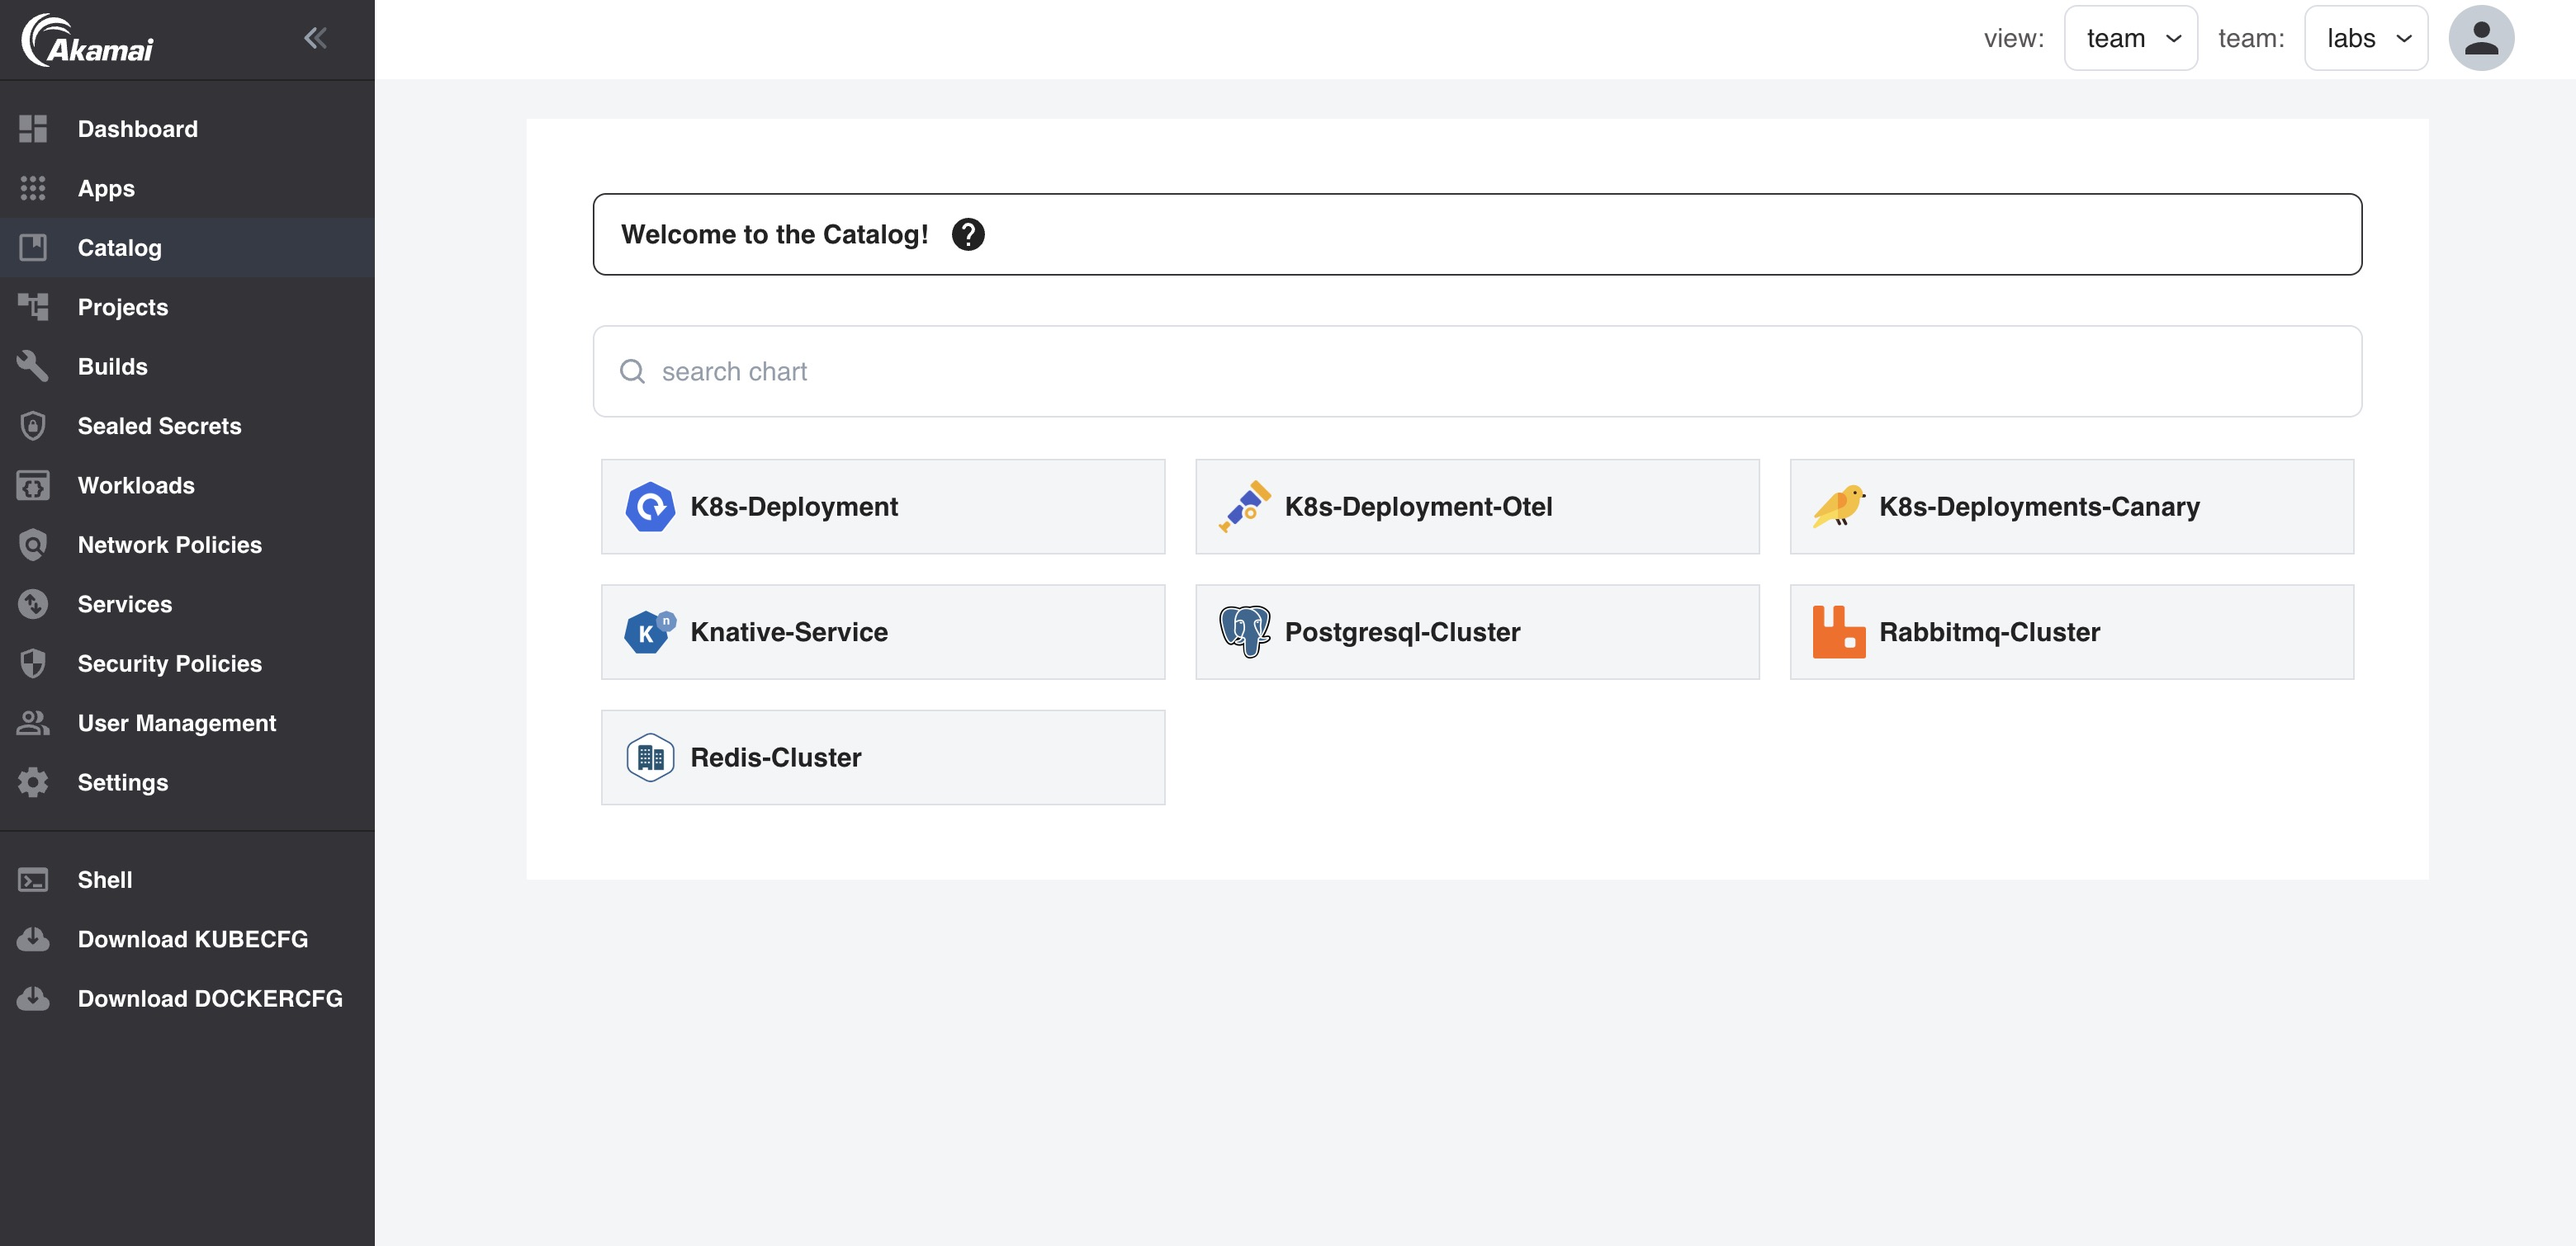
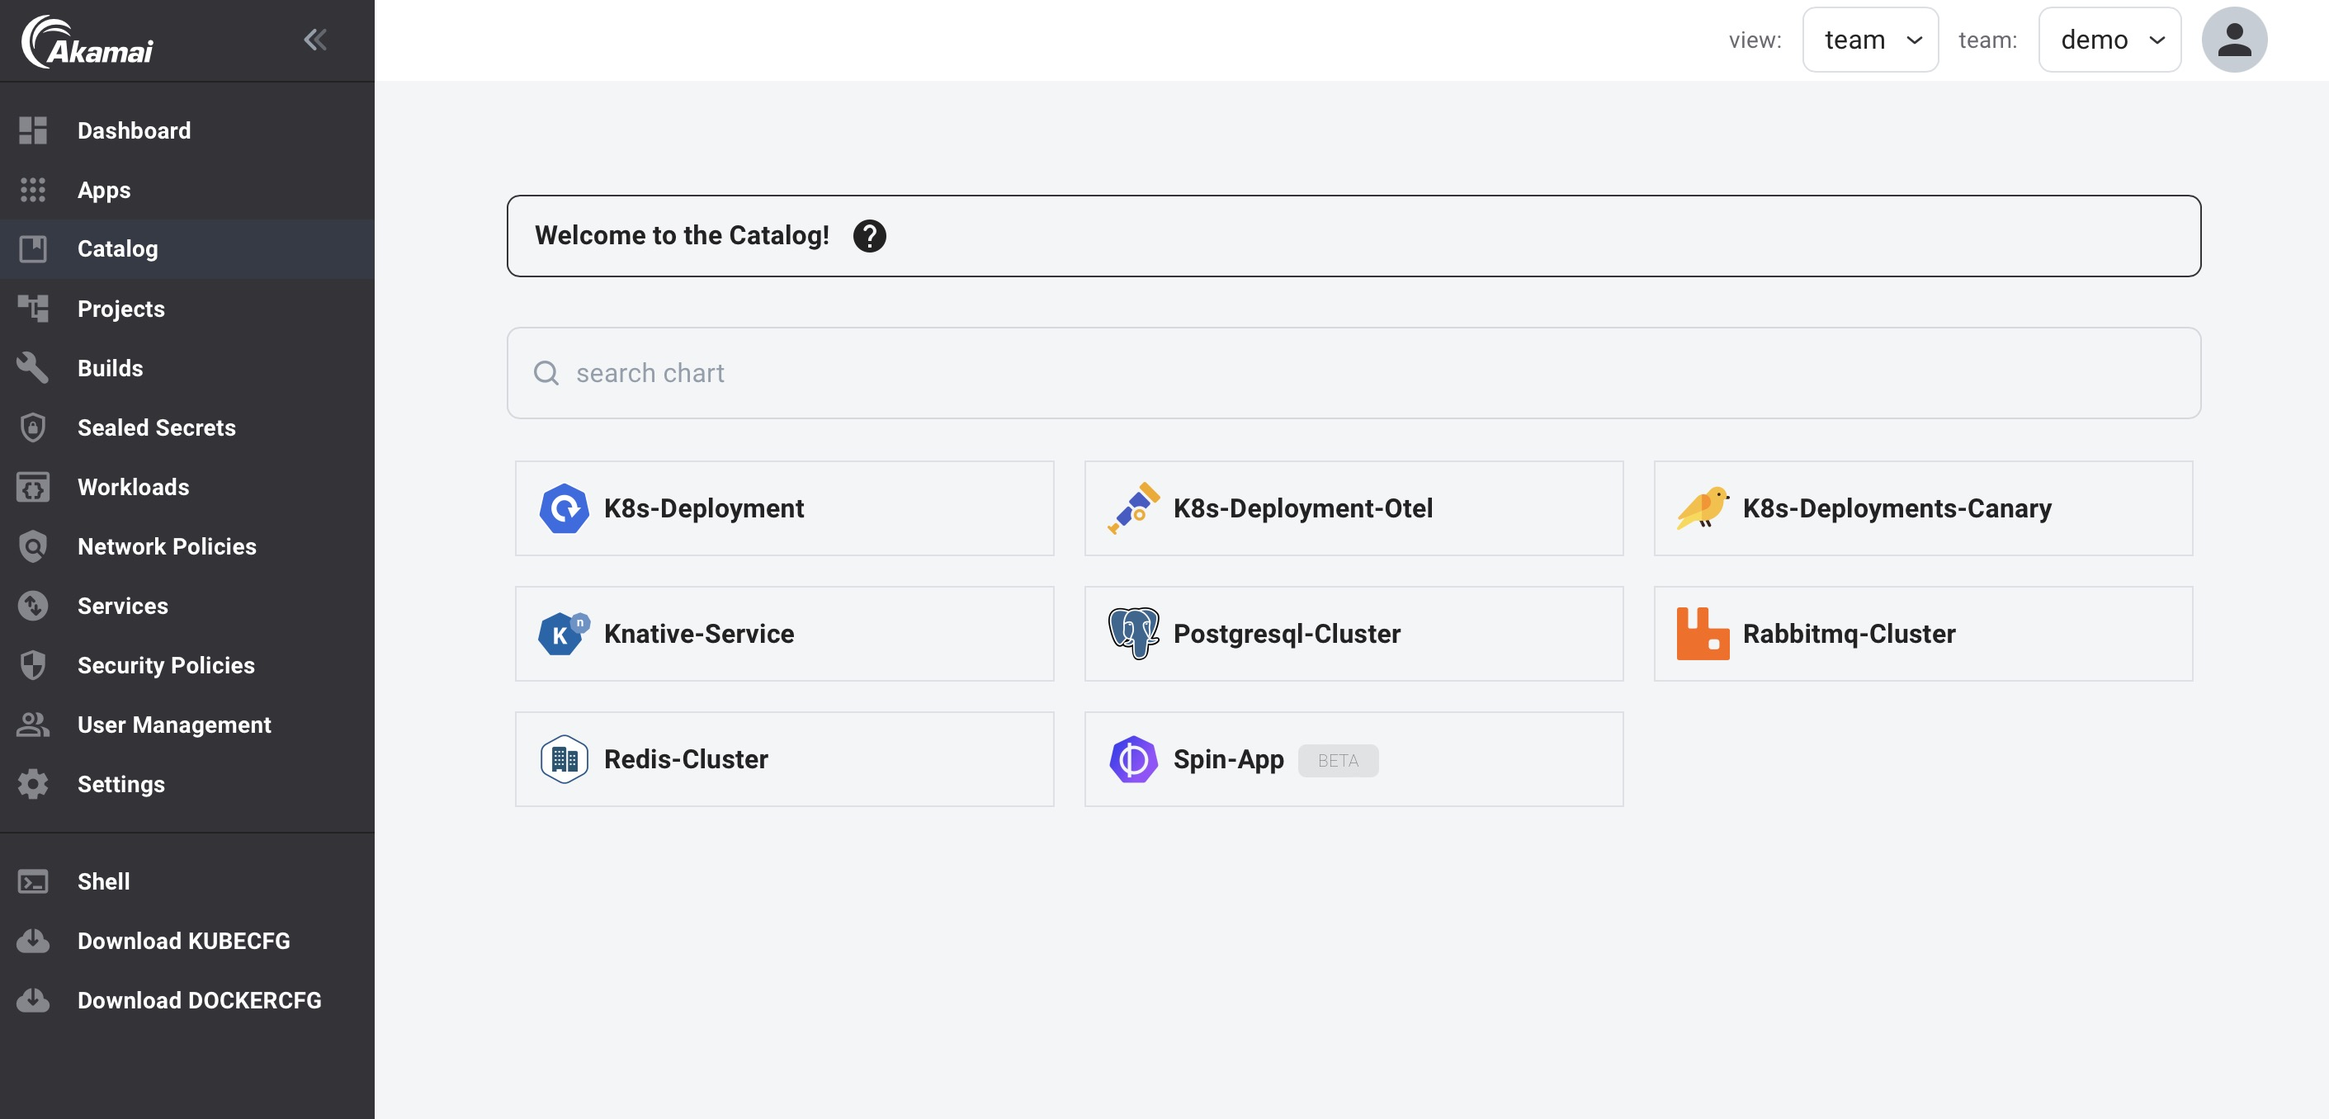
fix: team-admin docs incl. new catalog feature

diff --git a/sidebar-docs.js b/sidebar-docs.js
@@ -99,12 +99,24 @@ module.exports = {
         ],
       },
       {
+        "Console - Team-Admin": [
+          "for-ops/console/team-admin-overview",
+          "for-ops/console/team-admin-catalog",
+          "for-ops/console/team-admin-projects",
+          "for-ops/console/team-admin-builds",
+          "for-ops/console/team-admin-sealed-secrets",
+          "for-ops/console/team-admin-workloads",
+          "for-ops/console/team-admin-netpols",
+          "for-ops/console/team-admin-services",
+          "for-ops/console/team-admin-security-policies",
+        ],
+      },
+      {
         "How To": [
           "for-ops/how-to/overview",
           "for-ops/how-to/use-catalog",
           "for-ops/how-to/ingress-classes",
           "for-ops/how-to/use-team-admin",
-          // "for-ops/how-to/core-only",
           "for-ops/how-to/backups",
           "for-ops/how-to/clone-apl",
           "for-ops/how-to/manage-age",

diff --git a/docs/for-devs/console/catalog.md b/docs/for-devs/console/catalog.md
@@ -4,7 +4,7 @@ title: Catalog
 sidebar_label: Catalog
 ---
 
-## About the Catalog quick starts
+## About the Catalog Helm charts
 
 The Catalog is a library of curated Helm charts to create Kubernetes resources. By default the Catalog contains a set of Helm charts provided to get started quickly, but they can also be modified depending on your requirements or be removed from the Catalog. 
 
@@ -12,40 +12,48 @@ The contents of the Catalog and the RBAC configuration (which Team can use which
 
 The Catalog contains a set of Helm charts that can be used as quick starts. The following quick starts are available:
 
-### Kubernetes Deployment
+1. Kubernetes Deployment
 
 The `k8s-deployment` Helm chart can be used to create a Kubernetes `Deployment` (to deploy a single image), a `Service` and a `ServiceAccount`. Optionally a `HorizontalPodAutoscaler`, a Prometheus `ServiceMonitor` and a `Configmap` can be created.
 
-### Kubernetes Deployment with Open Telemetry Instrumentation
+2. Kubernetes Deployment with Open Telemetry Instrumentation
 
 The `k8s-deployment-otel` Helm chart can be used to create a Kubernetes `Deployment` (to deploy a single image), a `Service`, a `ServiceAccount` and an `Instrumentation` resource. Optionally a `HorizontalPodAutoscaler`, a Prometheus `ServiceMonitor` and a `Configmap` can be created.
 
-### Kubernetes Canary Deployments
+3. Kubernetes Canary Deployments
 
 The `k8s-deployments-canary` Helm chart can be used to create 2 Kubernetes `Deployments` (to deploy 2 versions of an image), a `Service` and a `ServiceAccount` resource. Optionally a `HorizontalPodAutoscaler`, a Prometheus `ServiceMonitor` and a `Configmap` (for each version) can be created.
 
-### Knative-service
+4. Knative-service
 
 The `knative-service` Helm chart can be used to create a Knative `Service` (to deploy a single image), a `Service` and a  `ServiceAccount`. Optionally a Prometheus `ServiceMonitor` can be created.
 
-### PostgreSQL cluster
+5. PostgreSQL cluster
 
 The `postgresql-cluster` Helm chart can be used to create a cloudnativepg PostgreSQL `Cluster`. Optionally a Prometheus `PodMonitor` and a `Configmap` (for adding a postgresql dashboard to Grafana) can be created.
 
-### Redis master-replica cluster
+6. Redis master-replica cluster
 
 The `redis-cluster` Helm chart can be used to create a Redis master-replica cluster.
 
-### RabbitMQ Cluster and/or Queues
+7. RabbitMQ Cluster and/or Queues
 
-The `rabbitmq-cluster` Helm chart can be used to create a `RabbitmqCluster`, `queues` and `Policy`s
+The `rabbitmq-cluster` Helm chart can be used to create a `RabbitmqCluster`, `queues` and `Policy`s.
+
+Using the `rabbitmq-cluster` Helm chart requires `RabbitMQ` to be enabled by a platform administrator. 
+
+8. SpinApp
+
+The `spin-app` Helm chart can be used to create a `SpinApp`. A SpinApp is a Custom Resource to deploy WebAssembly microservices and web applications based on Spin.
+
+Using the `spin-app` Helm chart requires a `spin-shim-executor` to be added to the Team by a platform administrator.
 
 
 ## Using the Catalog
 
 1. Click on `Catalog` in the left menu
 
-2. You will now see all the templates that are available to use
+2. You will now see all the templates that are available for use
 
 ![Team catalog](../../img/team-catalog.png)
 

diff --git a/docs/for-ops/console/team-admin-catalog.md b/docs/for-ops/console/team-admin-catalog.md
@@ -1,0 +1,70 @@
+---
+slug: team-admin-catalog
+title: Team Admin Catalog
+sidebar_label: Catalog
+---
+
+## About the Catalog Helm charts
+
+The Catalog is a library of curated Helm charts to create Kubernetes resources. By default the Catalog contains a set of Helm charts provided to get started quickly, but they can also be modified depending on your requirements or be removed from the Catalog. 
+
+The contents of the Catalog and the RBAC configuration (which Team can use which Helm chart) are managed by the platform administrator.
+
+The Catalog contains a set of Helm charts that can be used as quick starts, but also offers the option (for platform administrators only) to add more Helm charts to the Catalog, using the `+ Add Helm Chart` option.
+
+## Helm charts available for platform administrators
+
+Next to the Helm charts that are by default included in the Catalog and made available for Teams, the Catalog also by default includes a set of curated Helm charts that can only be installed by platform administrators. These Helm charts are visable in the Catalog for the Team `Admin`.
+
+The Helm charts that are by default added to the Catalog are maintained in the [apl-charts](https://github.com/linode/apl-charts) Github repository. Currently the following Helm charts are made available for platform-administrators:
+
+1. Kwasm Operator
+
+The `kwasm-operator` Helm chart can be used to add WebAssembly support to the Kubernetes Nodes. `kwasm-operator` is a prerequisite for installing `spin-operator`
+
+2. Spin Operator
+
+The `spin-operator` Helm chart can be used to enable deploying Spin applications to Kubernetes.
+
+3. Spin Shim Executor
+
+The `spin-shim-executor` Helm chart can be used to create a `SpinAppExecutor` utilized by Spin Operator to determine which executor type should be used in running a SpinApp.
+
+4. KubeFlow Pipelines Cluster Resources
+
+The `kfp-cluster-resources` Helm chart can be used to install the KubeFlow Pipelines CRDs.
+
+5. Kubeflow Pipelines
+
+The `kubeflow-pipelines` Helm chart can be used to install KubeFlow Pipelines in any Team.
+
+## Adding Helm charts to the Catalog
+
+1. Select view `team` and select team `admin` in the top bar.
+
+2. Click on `Catalog` in the left menu.
+
+3. You will now see all the templates that are available for use.
+.
+4. Click on `+ Add Helm Chart`.
+
+5. Fill in a URL that points to a `Chart.yaml`.
+
+6. Click on `GET DETAILS`.
+
+![catalog](../../img/add-helm-chart.png)
+
+7. Optionally change the `Icon URL` to point to an icon you want to use for this hem chart in the Catalog.
+
+8. If the Helm chart should be made available for all Teams, select `Allow teams to use this chart`.
+
+8. Click `ADD CHART`.
+
+The Helm chart will now be added to the `charts` repository in the Local Git service (Gitea) and will be visable in the Catalog:
+
+![catalog](../../img/team-admin-catalog.png)
+
+
+
+
+

diff --git a/docs/for-devs/console/overview.md b/docs/for-devs/console/overview.md
@@ -14,22 +14,22 @@ The Team view in the Console gives access to 2 sections:
 
 Self-service section:
 
-- [Apps](dashboard.md): An overview of Team Pod status, resource utilization and vulnerabilities.
-- [Apps](apps.md): All the apps available to the team on this platform.
+- [Dashboard](dashboard.md): An overview of Team Pod status, resource utilization and vulnerabilities.
+- [Apps](apps.md): All the apps available to the Team.
 - [Catalog](catalog.md): The Helm charts available for the Team in the Catalog.
-- [Projects](projects.md): A list of all Projects created by the team.
-- [Builds](builds.md): A list of all Builds created by the team.
-- [Sealed Secrets](sealed-secrets.md): A list of all Sealed Secrets created by the Team.
-- [Workloads](workloads.md): A list of all Workloads created by the Team.
-- [Network Policies](netpols.md): A list of all Network Policies created by the team.
-- [Services](services.md): A list of all team services.
+- [Projects](projects.md): A self-service form to create Projects.
+- [Builds](builds.md): A self-service form to create Builds.
+- [Sealed Secrets](sealed-secrets.md): A self-service form to create Sealed Secrets.
+- [Workloads](workloads.md): A self-service form to create Workloads.
+- [Network Policies](netpols.md): A self-service form to create Network Policies.
+- [Services](services.md): A self-service form to create Services.
 - [Security Policies](security-policies.md): A list of all Security Policies applicable to the Team.
 - [Settings](settings.md): Specific Team configuration options.
+
+Access Section:
+
 - [Shell](shell.md): Access to the cloud Shell within the context of the Team.
-
-Download links section:
-
 - A "Download KUBECFG" link to download a KUBECONFIG file that gives access to the namespace of the team selected. Admins can download one with `cluster-admin` permissions (giving access to all namespaces) by setting the team selector to '-'. You can use it like `export KUBECONFIG=$file_location` or by merging it with another KUBECONFIG file like `.kube/config`. Please visit the official Kubernetes [documentation about managing kube contexts](https://kubernetes.io/docs/concepts/configuration/organize-cluster-access-kubeconfig/).
 - When Harbor is enabled, a link to download the Dockercfg file.
-- When an automatic generated CA or Let's Encrypt staging certificates are used, a "Download CA" link is provided.
+- When automatic generated CA or Let's Encrypt staging certificates are used, a "Download CA" link is provided.
 

diff --git a/docs/for-ops/console/team-admin-overview.md b/docs/for-ops/console/team-admin-overview.md
@@ -1,0 +1,30 @@
+---
+slug: team-admin-overview
+title: Team Admin Overview
+sidebar_label: Overview
+---
+
+## The Console - Team Admin
+
+The Console is the web UI of the platform and offers access to all integrated apps and self-service tasks. The Console has a topbar showing a View and a Team selector. The View selector allows to switch between the `Platform` and the `Team` view.
+
+Self-service section:
+
+- [Catalog](team-admin-catalog.md): The Helm charts available for platform administrators to install in any namespace
+- [Projects](team-admin-projects.md): A self-service form for platform administrators to create Projects.
+- [Builds](team-admin-builds.md): A self-service form for platform administrators to create Builds.
+- [Sealed Secrets](team-admin-sealed-secrets.md): A self-service form for platform administrators to create Sealed Secrets.
+- [Workloads](team-admin-workloads.md): A self-service form to create for platform administrators Workloads in any namespace.
+- [Network Policies](team-admin-netpols.md): A self-service form for platform administrators to create Network Policies (in the `team-admin` namespace only).
+- [Services](team-admin-services.md): A self-service form for platform administrators to create Services to expose endpoints (`ClusterIP` services) from any namespace.
+- [Security Policies](team-admin-security-policies.md): A list of all Security Policies applicable to the `team-admin` namespace only.
+
+Access Section:
+
+- [Shell](shell.md): Access to the cloud Shell within the context of the complete cluster (all namespaces).
+- The `Download KUBECFG` is disabled for platform administrators.
+- When Harbor is enabled, a link to download the Dockercfg file.
+- When automatic generated CA or Let's Encrypt staging certificates are used, a "Download CA" link is provided.
+
+
+

diff --git a/docs/for-ops/console/team-admin-projects.md b/docs/for-ops/console/team-admin-projects.md
@@ -1,0 +1,15 @@
+---
+slug: team-admin-projects
+title: Team Admin Projects
+sidebar_label: Projects
+---
+
+The Projects self-service feature for the Team Admin is the same as for regular Teams, but with the following differences:
+
+- The Workload created by the Project can be used to deploy Helm charts from the Catalog in any namespace.
+
+- The Service created by the Project can expose any K8s `ClusterIP` service that exist in any namespace (but needs to be the same namespace as where the Workload is deployed).
+
+See [here](../../for-devs/console/projects.md) for more information about Projects.
+
+

diff --git a/docs/for-ops/console/team-admin-workloads.md b/docs/for-ops/console/team-admin-workloads.md
@@ -1,0 +1,16 @@
+---
+slug: team-admin-workloads
+title: Team Admin Workloads
+sidebar_label: Workloads
+---
+
+The Workload self-service feature for the Team Admin is the same as for regular Teams, but with the following difference:
+
+- The Workload can be used to deploy Helm charts from the Catalog in any namespace.
+
+- If the namespace does not exist, the namespace can be automatically created.
+
+- Istio sidecars can optionally be enabled for all Pods in the Workload.
+
+See [here](../../for-devs/console/workloads.md) for more information about Workloads.
+

diff --git a/docs/for-ops/console/team-admin-services.md b/docs/for-ops/console/team-admin-services.md
@@ -1,0 +1,14 @@
+---
+slug: team-admin-services
+title: Team Admin Services
+sidebar_label: Services
+---
+
+The Services self-service feature for the Team Admin is the same as for regular Teams, but with the following difference:
+
+- The Service created can be used to expose any K8s `ClusterIP` service in any namespace.
+
+See [here](../../for-devs/console/services.md) for more information about Services.
+
+
+

diff --git a/docs/for-devs/console/netpols.md b/docs/for-devs/console/netpols.md
@@ -12,7 +12,7 @@ When the Network Policies `Egress control` option is enabled for the team, all t
 
 ## Network Policies (all)
 
-All Network Policies of the team are listed here.
+All Network Policies of the Team are listed here.
 
 | Property      | Description                                                     |
 | ------------- | --------------------------------------------------------------- |

diff --git a/docs/for-ops/console/team-admin-security-policies.md b/docs/for-ops/console/team-admin-security-policies.md
@@ -1,0 +1,9 @@
+---
+slug: team-admin-security-policies
+title: Team Admin Security Policies
+sidebar_label: Security Policies
+---
+
+The Security Policies self-service feature for the Team Admin is the same as for regular teams. Security Policies are only applied in the `team-admin` namespace. See [here](../../for-devs/console/security-policies.md) for more information about Security Policies.
+
+

diff --git a/docs/for-ops/console/team-admin-sealed-secrets.md b/docs/for-ops/console/team-admin-sealed-secrets.md
@@ -1,0 +1,9 @@
+---
+slug: team-admin-sealed-secrets
+title: Team Admin Sealed Secrets
+sidebar_label: Sealed Secrets
+---
+
+The Sealed Secrets self-service feature for the Team Admin is the same as for regular teams. Sealed Secrets can only be created in the `team-admin` namespace. See [here](../../for-devs/console/sealed-secrets.md) for more information about Sealed Secrets.
+
+

diff --git a/docs/for-ops/console/team-admin-netpols.md b/docs/for-ops/console/team-admin-netpols.md
@@ -1,0 +1,9 @@
+---
+slug: team-admin-netpols
+title: Team Admin Network Policies
+sidebar_label: Network Policies
+---
+
+The Network Policies self-service feature for the Team Admin is the same as for regular teams. See [here](../../for-devs/console/netpols.md) for more information about Network Policies.
+
+
